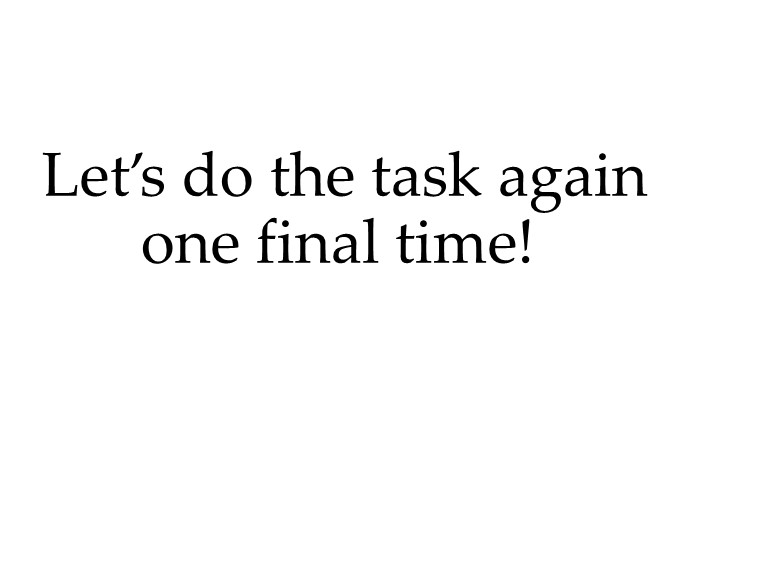
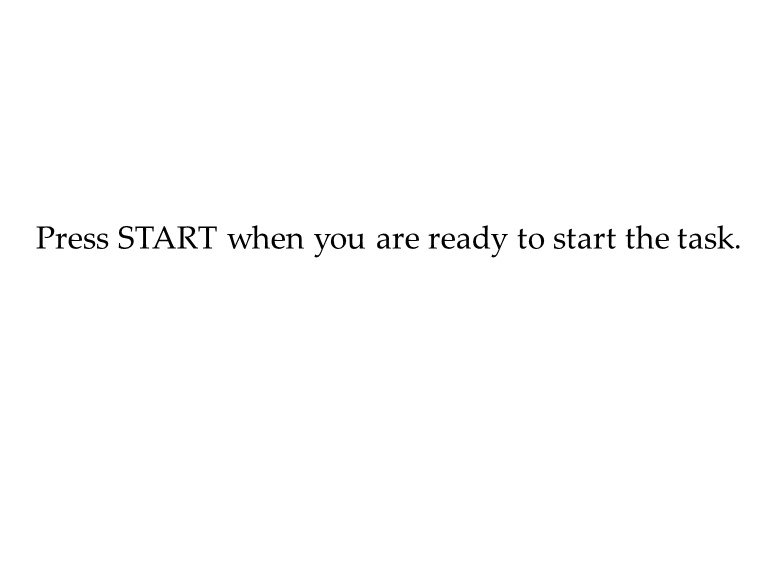
updated slides and added 1 more slide

Changed region(s): [[0.0312, 0.375, 0.9688, 0.4688], [0.0625, 0.25, 0.8438, 0.375]]

diff --git a/js/buttonoptions.js b/js/buttonoptions.js
@@ -54,7 +54,7 @@ function handleResponse(rawData) {
             $("#instruction-text").html(jsonData["instructionText"]);
         }
 
-        if(sessionData["picCount"]==6 || sessionData["picCount"]==7|| sessionData["picCount"]==9){
+        if(sessionData["picCount"]==7 || sessionData["picCount"]==8|| sessionData["picCount"]==10){
             //videos start only after instructions
             if (sessionData["playVideo"]==1){
                 //disable buttons until the video is over

diff --git a/servers/buttonserver.py b/servers/buttonserver.py
@@ -53,7 +53,7 @@ def do_click():
 
   #go to next/prev pic according to button clicked
   buttonClicked = requestData["buttonID"]
-  if sessionData["picCount"]<5:
+  if sessionData["picCount"]<6:
     if buttonClicked==0:
       sessionData["picCount"] -= 1
     elif buttonClicked==1:
@@ -84,12 +84,19 @@ def do_click():
   
   if sessionData["picCount"]==4:
     ret = {"imageURL": "images/Slide4.JPG",
-           "buttonLabels": ["Prev", "START"],
+           "buttonLabels": ["Prev", "Next"],
            "instructionText": " ",
            "sessionData": sessionData}
     return json.dumps(ret)
 
   if sessionData["picCount"]==5:
+    ret = {"imageURL": "images/Slide5.JPG",
+           "buttonLabels": ["Prev", "START"],
+           "instructionText": " ",
+           "sessionData": sessionData}
+    return json.dumps(ret)
+
+  if sessionData["picCount"]==6:
     #generate a cookie with user's ID
     gen_id = ''.join(random.choice(string.ascii_uppercase +
       string.digits) for _ in range(6))
@@ -116,9 +123,9 @@ def do_click():
   #following code may need mturk_id, so get it once now
   mturk_id = request.cookies.get('mturk_id','NOT SET')
 
-  if sessionData["picCount"]==7:
+  if sessionData["picCount"]==8:
     sessionData["playVideo"] = 0
-    ret = {"imageURL": "images/Slide5.JPG",
+    ret = {"imageURL": "images/Slide6.JPG",
            "buttonLabels": ["null", "START"],
            "instructionText": " ",
            "sessionData": sessionData,
@@ -132,7 +139,7 @@ def do_click():
     data[mturk_id].append("timeDelta: "+ str(timeDelta.total_seconds()))
     return json.dumps(ret)
 
-  if sessionData["picCount"]==8:
+  if sessionData["picCount"]==9:
     sessionData["playVideo"] = 0
     Model2.restartTask(d,request.cookies.get('mturk_id','NOT SET'))
     ret = {"imageURL": "images/T100.jpg",
@@ -164,10 +171,10 @@ def do_click():
   videoLink = "videos/{}to{}{}.mp4".format(oldTableTheta, currTableTheta,suffix)
   imageLink = "images/T{}.jpg".format(currTableTheta)
   if currTableTheta==0 or currTableTheta==180:
-    if sessionData["picCount"]==6:
+    if sessionData["picCount"]==7:
       Model2.setPrevGoalStateTheta(d,request.cookies.get('mturk_id','NOT SET'), currTableTheta)
       sessionData["picCount"]+=1
-    elif sessionData["picCount"]==9:
+    elif sessionData["picCount"]==10:
       sessionData["toSurvey"] = True
       #timestamp
       secondFinish = datetime.datetime.now()
